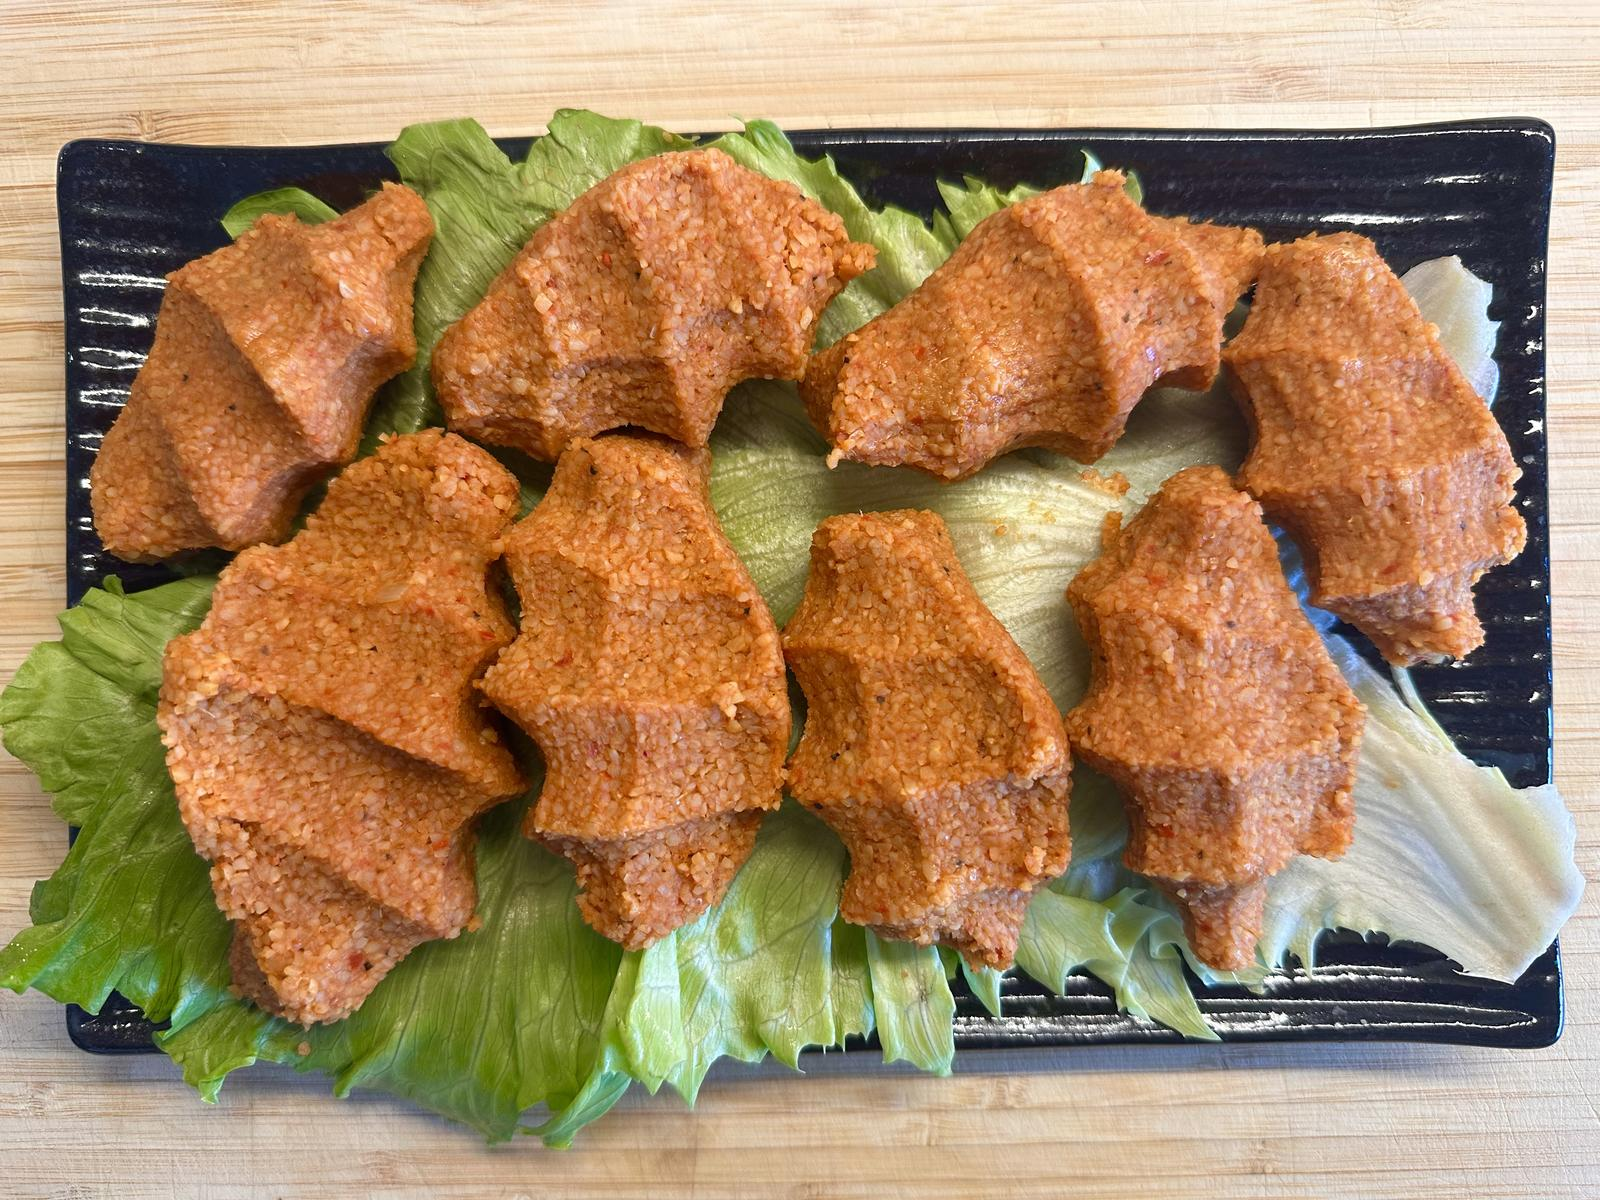
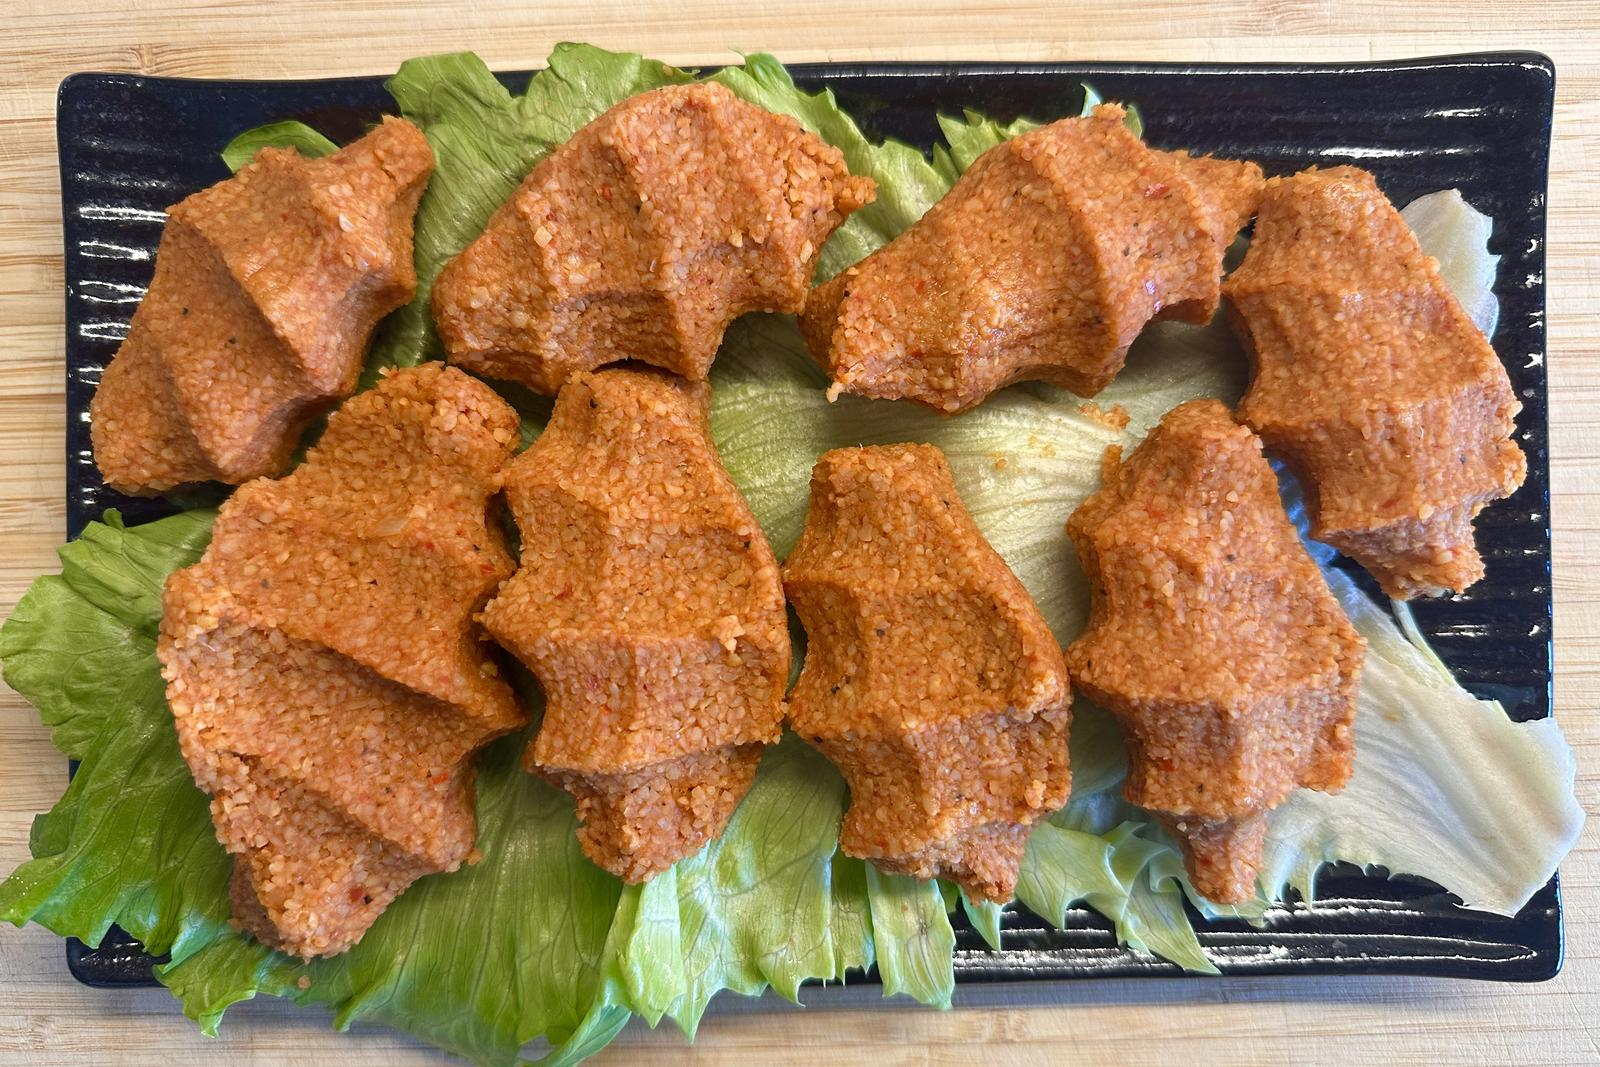
Serve small thumb assets on the overview, lazy-loaded
The overview list showed a 52px square but downloaded the full recipe-page
header photo to fill it, eagerly, for every row. Add a 156x156 thumb asset
per photo (52px at 3x DPR) and load it in the list instead, with
loading="lazy". Recipes without a thumb file fall back to the full photo,
then to the striped placeholder, so the derived path can never break a row.

Also re-crop the cig kofte header to 3:2 (1600x1067) — both photo slots
cover-crop toward landscape, so the extra height of a 4:3 source is bytes
that get cropped away. The recipe-page photo stays eager; it is the LCP
element there.

Document the photo sizes and the push-to-main workflow in CLAUDE.md.

Claude-Session: https://claude.ai/code/session_01CcRYoWS57dEio3eBPLuEuf

diff --git a/src/pages/OverviewPage.tsx b/src/pages/OverviewPage.tsx
@@ -6,17 +6,27 @@ import { TagPill } from '../components/TagPill'
 import { StarButton, StarIcon } from '../components/StarButton'
 import { useFavorites } from '../hooks/useFavorites'
 
+/* The list only ever shows a 52px square, so it loads the small thumb asset
+   that sits in recipes/thumbs/ beside the photo. Recipes without one fall back
+   to the full photo, and only then to the striped placeholder. */
 function Thumb({ recipe }: { recipe: Recipe }) {
-  const [failed, setFailed] = useState(false)
-  if (!recipe.image || failed) {
+  const [stage, setStage] = useState<'thumb' | 'photo' | 'failed'>('thumb')
+
+  if (!recipe.image || stage === 'failed') {
     return <div className="thumb thumb--empty" aria-hidden="true" />
   }
+
+  const src =
+    stage === 'thumb' ? recipe.image.replace(/([^/]+)$/, 'thumbs/$1') : recipe.image
+
   return (
     <img
       className="thumb"
-      src={import.meta.env.BASE_URL + recipe.image}
+      src={import.meta.env.BASE_URL + src}
       alt=""
-      onError={() => setFailed(true)}
+      loading="lazy"
+      decoding="async"
+      onError={() => setStage(stage === 'thumb' ? 'photo' : 'failed')}
     />
   )
 }

diff --git a/CLAUDE.md b/CLAUDE.md
@@ -1,0 +1,67 @@
+# CLAUDE.md
+
+Guidance for Claude Code when working in this repository.
+
+## Git workflow
+
+**Commit and push straight to `main`.** This repo does not use feature
+branches or pull requests — there is no review step to wait for.
+
+```sh
+git add -A && git commit -m "..." && git push -u origin main
+```
+
+Do not create branches, and do not open pull requests, even if a session's
+default instructions suggest one.
+
+## Project shape
+
+Client-side-only Vite + React + TypeScript app. No backend, no router
+library — two page components behind a hash route. See `README.md` for the
+stack and the dev commands.
+
+- Recipe content lives in `src/data/recipes.ts` as plain objects.
+- All styling is one global stylesheet, `src/styles.css`. Single breakpoint at
+  `860px`; there is no CSS framework and no CSS-in-JS.
+- `npm run build` runs `tsc` then the Vite build — run it before pushing, it
+  is the only check this repo has.
+
+## Recipe photos
+
+Photos are committed assets under `public/`. Each recipe with a photo needs
+two files:
+
+| File | Size | Purpose |
+| --- | --- | --- |
+| `public/recipes/<slug>.jpg` | **1600 × 1067** (3:2) | recipe page header |
+| `public/recipes/thumbs/<slug>.jpg` | **156 × 156** (1:1) | overview list row |
+
+Set `image: 'recipes/<slug>.jpg'` on the recipe. The thumb path is derived by
+convention in `Thumb` (`src/pages/OverviewPage.tsx`) — no second field to set.
+A recipe with no thumb file falls back to the full photo, then to the striped
+placeholder, so nothing breaks, it just downloads more than it needs.
+
+Both slots use `object-fit: cover`, so the source aspect never has to match
+the box — but do not ship camera originals. Sizes are derived from the largest
+box each slot reaches at high DPR:
+
+- Header: widest at the `860px` breakpoint on a 2× screen (≈1648 × 420 device
+  px), so ~1600px wide is the ceiling. 3:2 over 4:3 because both slots crop
+  toward landscape — the extra height in 4:3 is bytes that get cropped away.
+- Thumb: 52 CSS px at 3× DPR.
+
+Process photos with `quality=75–80`, progressive, EXIF stripped. Expect
+~250–350 KB per header and ~8 KB per thumb. Pillow is enough:
+
+```python
+from PIL import Image, ImageOps
+im = ImageOps.exif_transpose(Image.open(SRC)).convert("RGB")
+ImageOps.fit(im, (1600, 1067), Image.LANCZOS).save(
+    f"public/recipes/{slug}.jpg", quality=75, optimize=True, progressive=True)
+ImageOps.fit(im, (156, 156), Image.LANCZOS).save(
+    f"public/recipes/thumbs/{slug}.jpg", quality=80, optimize=True)
+```
+
+`ImageOps.fit` centre-crops. Check the result — a centre crop can cut the dish
+on an off-centre composition, and cropping someone's photo is a content
+decision, so ask rather than guess when the framing is tight.

diff --git a/README.md b/README.md
@@ -32,6 +32,10 @@ filters and search automatically.
 - Photos come from committed assets only: drop the file in `public/recipes/`
   and set `image: 'recipes/<file>.jpg'` on the recipe. Without one (or if the
   file is missing), a striped placeholder is shown instead.
+- Two sizes per photo: `recipes/<slug>.jpg` at 1600x1067 for the recipe page
+  header, and `recipes/thumbs/<slug>.jpg` at 156x156 for the overview row.
+  The thumb path is derived by convention, so only `image` needs setting.
+  See `CLAUDE.md` for how the sizes are derived and how to generate them.
 
 ## Pages
 
